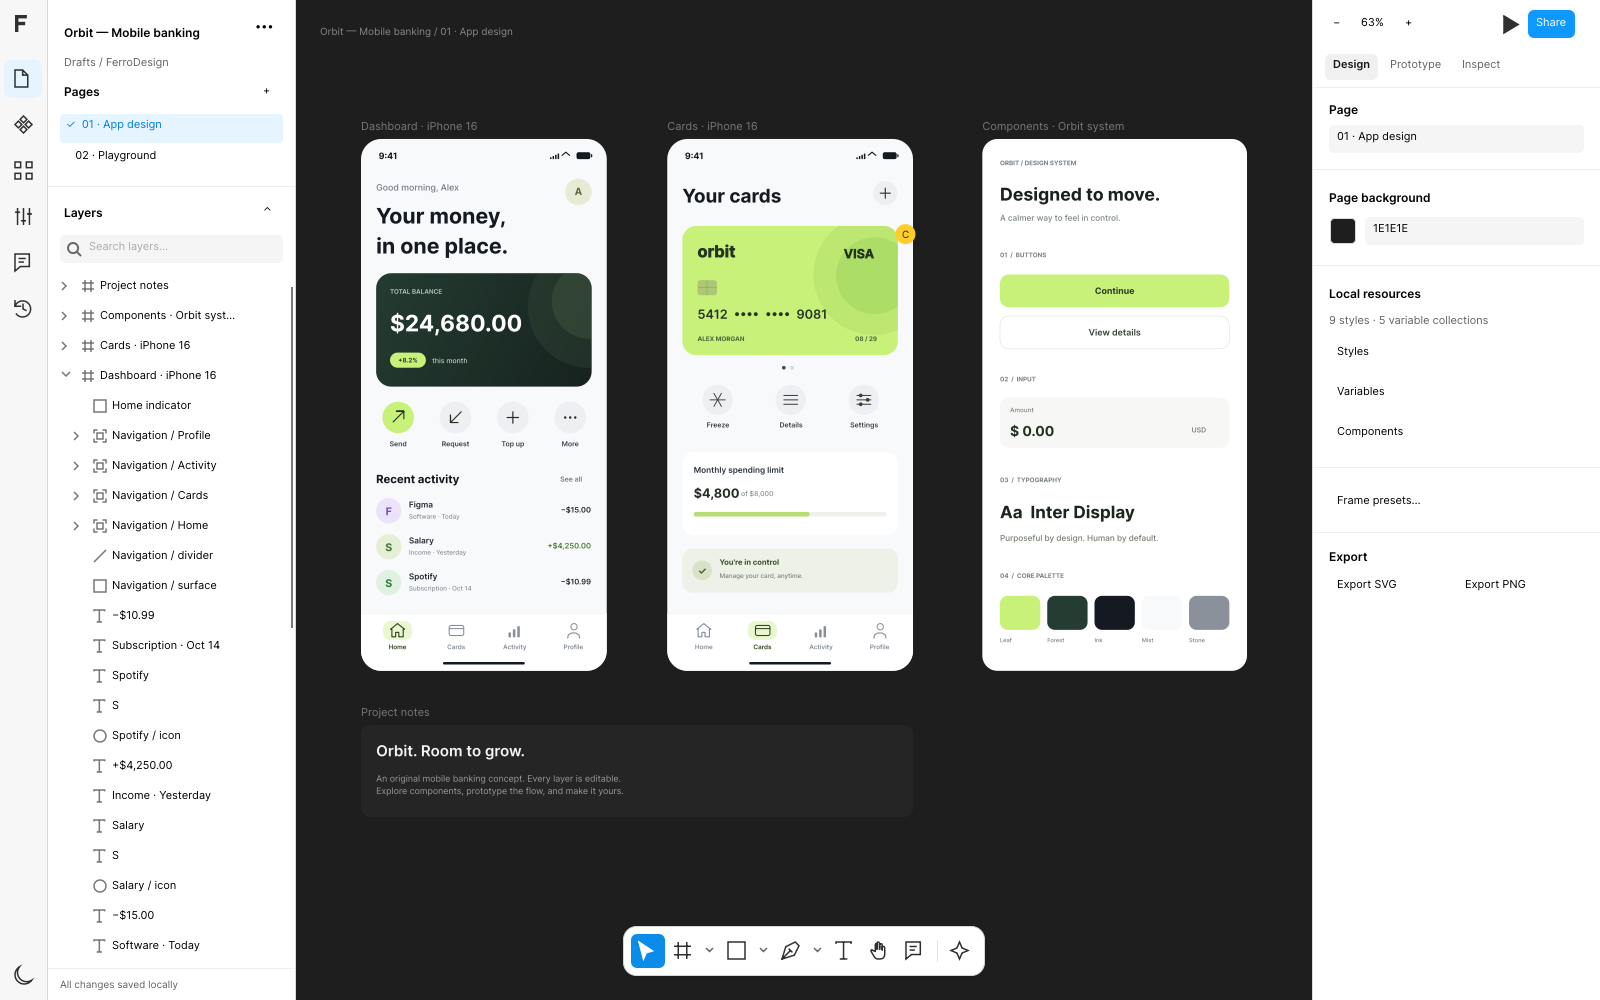
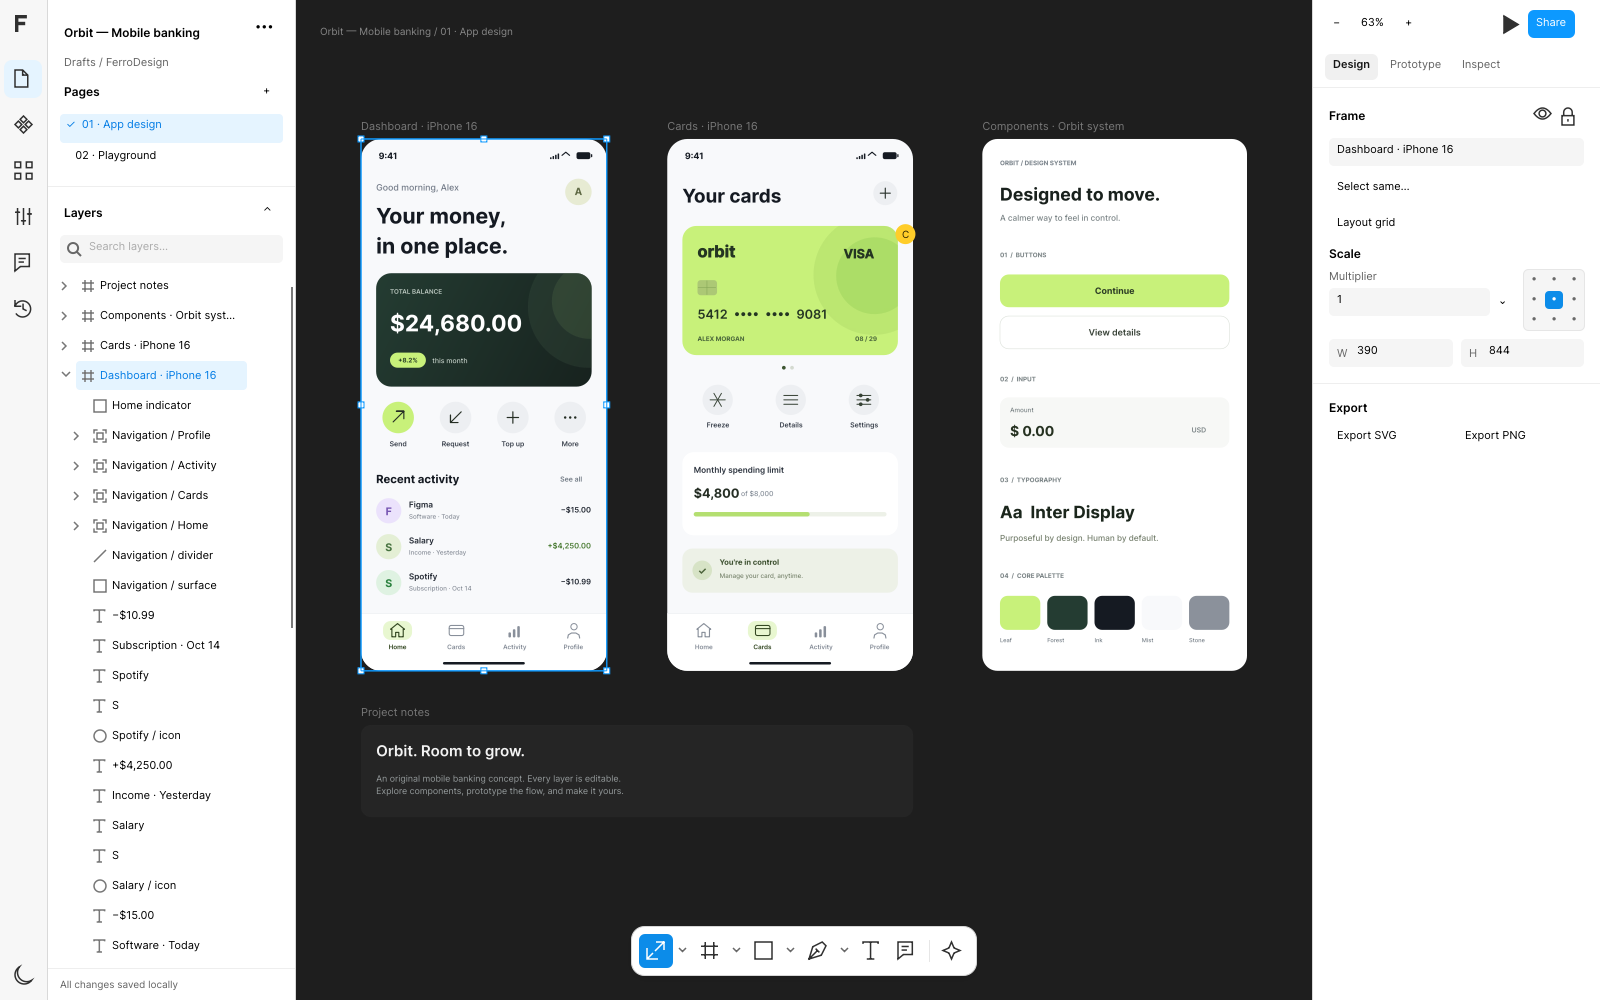
Show the verified native Scale workspace in the editor preview

diff --git a/README.md b/README.md
@@ -6,7 +6,7 @@ browser (WebAssembly): the same editor, controls, document model and scene rende
 
 **Open it in the browser:** https://ferroui.github.io/FerroDesign/
 
-![FerroDesign editing the Orbit mobile banking document](docs/images/ferrodesign-editor.png)
+![FerroDesign scaling a selected banking screen with the nine-point anchor inspector](docs/images/ferrodesign-editor.png)
 
 The editor has pages and layers, an infinite canvas, layout guides, editable vector networks, rich text
 with paragraph formatting, image cropping, effects and masks, continuous corners, variable-width
